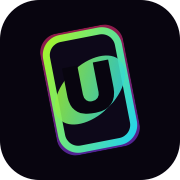
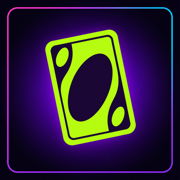
Новый набор картинок: 12 арен, 24 портрета, 10 рубашек, текстуры
Пришло всё, что просили в docs/prompts.md, и всё встало без
правок в загрузчике — потолок перебора был поднят заранее.
Шестнадцать имён перестали играть с чужим лицом, а три
портрета, разошедшихся с порядком имён, перерисованы.

Текстурам материалов понадобился код, и он написан. У карты
появился свой слой cardSkin: ::before и ::after заняты самим
материалом и внутренним свечением, и вписать туда ещё и
текстуру значило бы переписывать все пять материалов
целиком. Слой ложится через overlay, чтобы текстура легла на
цвет масти, а не закрасила его, и приглушён — поверх него
номинал, которому и так приходится помогать тёмным ореолом.
Нет файлов — слой пустой и невидимый, карта прежняя.

Иконка для домашнего экрана взята из набора: 180 точек для
айфона, 1024 в манифест.

Заодно закрыт долг из docs/todo.md. Летящая к сопернику
карта считала свой размер сама — 84 на коэффициент, — и
после переезда размеров веера в CSS приземлялась не того
размера, что лежащие рядом. Теперь спрашивает у настоящей
рубашки в веере.

diff --git a/index.html b/index.html
@@ -27,15 +27,15 @@
 
   <title>ACID UNO</title>
 
-  <link rel="icon" href="favicon.svg?v=128" type="image/svg+xml">
-  <link rel="apple-touch-icon" href="apple-touch-icon.png?v=128">
-  <link rel="manifest" href="manifest.webmanifest?v=128">
+  <link rel="icon" href="favicon.svg?v=130" type="image/svg+xml">
+  <link rel="apple-touch-icon" href="apple-touch-icon.png?v=130">
+  <link rel="manifest" href="manifest.webmanifest?v=130">
 
     
-  <link rel="stylesheet" href="style.css?v=128">
-  <link rel="stylesheet" href="effects.css?v=128">
-  <link rel="stylesheet" href="v9.1.css?v=128">
-  <link rel="stylesheet" href="features.css?v=128">
+  <link rel="stylesheet" href="style.css?v=130">
+  <link rel="stylesheet" href="effects.css?v=130">
+  <link rel="stylesheet" href="v9.1.css?v=130">
+  <link rel="stylesheet" href="features.css?v=130">
   
 </head>
 
@@ -909,20 +909,20 @@
      animations.js обязательно идёт первым.
 ========================================= -->
 
-<script src="src/assets.js?v=128"></script>
-<script src="src/rules.js?v=128"></script>
-<script src="src/match.js?v=128"></script>
-<script src="src/audio.js?v=128"></script>
-<script src="animations.js?v=128"></script>
-<script src="src/bot.js?v=128"></script>
-<script src="src/transport.js?v=128"></script>
-<script src="src/store.js?v=128"></script>
-<script src="game.js?v=128"></script>
-<script src="v9.1.js?v=128"></script>
-<script src="src/features.js?v=128"></script>
-<script src="src/coach.js?v=128"></script>
-<script src="src/room.js?v=128"></script>
-<script src="src/tutorial.js?v=128"></script>
+<script src="src/assets.js?v=130"></script>
+<script src="src/rules.js?v=130"></script>
+<script src="src/match.js?v=130"></script>
+<script src="src/audio.js?v=130"></script>
+<script src="animations.js?v=130"></script>
+<script src="src/bot.js?v=130"></script>
+<script src="src/transport.js?v=130"></script>
+<script src="src/store.js?v=130"></script>
+<script src="game.js?v=130"></script>
+<script src="v9.1.js?v=130"></script>
+<script src="src/features.js?v=130"></script>
+<script src="src/coach.js?v=130"></script>
+<script src="src/room.js?v=130"></script>
+<script src="src/tutorial.js?v=130"></script>
 
 </body>
 </html>

diff --git a/features.css b/features.css
@@ -6567,3 +6567,60 @@ html[data-back-art="1"] #botCards .v9-bot-card::after {
       scale(.72);
   }
 }
+
+
+/* =========================================================
+   ТЕКСТУРА МАТЕРИАЛА
+
+   Пять материалов карты рисовались градиентами, и это было
+   видно: градиент чистый, а материал — нет. Поверх ложится
+   настоящая текстура из assets/, своим слоем: ::before и
+   ::after у карты заняты самим материалом и внутренним
+   свечением.
+
+   Включается только когда файл нашёлся (data-skin-art на
+   корне). Нет файлов — слой пустой и невидимый, карта
+   выглядит как раньше.
+   ========================================================= */
+
+.cardSkin {
+  position: absolute;
+  inset: 0;
+
+  z-index: 2;
+
+  border-radius: inherit;
+
+  pointer-events: none;
+}
+
+html[data-skin-art="1"] .cardSkin {
+  background-image: var(--skin-texture);
+
+  background-size: cover;
+
+  /*
+    Overlay, а не обычная подложка: текстура должна лечь на
+    цвет масти, а не закрасить его. И приглушена — поверх
+    неё лежит номинал, которому уже приходилось помогать
+    тёмным ореолом.
+  */
+  mix-blend-mode: overlay;
+
+  opacity: .5;
+}
+
+/* на летящей карте текстура ни к чему — она смазана движением */
+.flyingCard .cardSkin,
+.v91-dragging .cardSkin {
+  display: none;
+}
+
+/*
+  У чёрных карт своя жизнь: там знак нарисован маской по
+  фону, и текстура поверх съедала бы его края.
+*/
+html[data-skin-art="1"] .card.wild .cardSkin,
+html[data-skin-art="1"] .handCard.wild .cardSkin {
+  opacity: .3;
+}

diff --git a/src/assets.js b/src/assets.js
@@ -53,11 +53,26 @@
   };
 
 
+  /*
+    Текстуры материалов лежат не по номерам, а по именам —
+    материал у карты не случайный номер, а конкретный
+    «плёнка» или «печатная плата».
+  */
+  const SKINS = [
+    "film",
+    "glass",
+    "pcb",
+    "tube",
+    "crt"
+  ];
+
+
   /* что реально нашлось */
   const found = {
     arena: [],
     bot: [],
-    back: []
+    back: [],
+    skin: {}
   };
 
 
@@ -100,6 +115,50 @@
     found[kind] = list;
 
     return list;
+  }
+
+
+  async function scanSkins() {
+
+    await Promise.all(
+      SKINS.map(async name => {
+
+        const url = `assets/skin-${name}.${EXT}`;
+
+        if (await probe(url)) {
+          found.skin[name] = url;
+        }
+      })
+    );
+
+    return found.skin;
+  }
+
+
+  /*
+    Материал карты. Текстуру кладём переменной, а сам факт её
+    наличия — атрибутом: без него подложка на карте остаётся
+    пустой и невидимой, и карта выглядит ровно как раньше.
+  */
+  function dressSkin(name) {
+
+    const url = found.skin[name];
+
+    const root = document.documentElement;
+
+    if (!url) {
+
+      delete root.dataset.skinArt;
+
+      return;
+    }
+
+    root.style.setProperty(
+      "--skin-texture",
+      `url("${url}")`
+    );
+
+    root.dataset.skinArt = "1";
   }
 
 
@@ -175,7 +234,8 @@
     await Promise.all([
       scan("arena"),
       scan("bot"),
-      scan("back")
+      scan("back"),
+      scanSkins()
     ]);
 
     dressArena();
@@ -188,12 +248,14 @@
 
   return {
     COUNTS,
+    SKINS,
     found,
     scan,
     boot,
     dressArena,
     dressBacks,
-    dressFace
+    dressFace,
+    dressSkin
   };
 
 });

diff --git a/v9.1.js b/v9.1.js
@@ -3836,18 +3836,24 @@
       b.y - a.y;
 
 
-    const layout =
-      getBotFanLayout91(
-        Math.max(
-          bot.length + 1,
-          1
-        )
-      );
+    /*
+      Во что карта должна превратиться, долетев. Раньше
+      размер считался тут заново — 84 на свой коэффициент, —
+      и после того как размеры веера переехали в CSS, летящая
+      карта приземлялась не того размера, что лежащие рядом.
 
+      Теперь спрашиваем у настоящей рубашки в веере. Её нет
+      (совсем пустая рука) — считаем по-старому.
+    */
+    const backEl =
+      document.querySelector(".opponentBack");
 
     const targetWidth =
+      backEl?.offsetWidth ||
       84 *
-      layout.scale;
+        getBotFanLayout91(
+          Math.max(bot.length + 1, 1)
+        ).scale;
 
 
     const scale =

diff --git a/game.js b/game.js
@@ -412,7 +412,17 @@ function startGame() {
 function cardFaceHTML(card) {
   const label = cardLabel(card.value);
 
+  /*
+    cardSkin — подложка материала. Своим слоем, а не в
+    ::before и не в ::after: оба уже заняты самим материалом
+    и внутренним свечением, и вписать туда ещё и текстуру
+    значило бы переписывать все пять материалов целиком.
+
+    Пустой, пока в assets/ нет текстур: тогда его просто не
+    видно.
+  */
   return `
+    <i class="cardSkin" aria-hidden="true"></i>
     <span class="cardCorner cardCornerTop" aria-hidden="true">${label}</span>
     <div class="value" data-v="${card.value}">${label}</div>
     <span class="cardCorner cardCornerBottom" aria-hidden="true">${label}</span>

diff --git a/src/features.js b/src/features.js
@@ -868,6 +868,8 @@
     lastSkin = skin;
 
     document.documentElement.dataset.skin = skin;
+
+    window.AcidAssets?.dressSkin(skin);
   }
 
 
@@ -884,7 +886,18 @@
   */
   window.AcidAssets
     ?.boot()
-    .then(() => render());
+    .then(() => {
+
+      /*
+        Материал разыгран до того, как нашлись картинки, —
+        текстуру для него надеваем задним числом.
+      */
+      window.AcidAssets.dressSkin(
+        document.documentElement.dataset.skin
+      );
+
+      render();
+    });
 
 
   /* =======================================================
